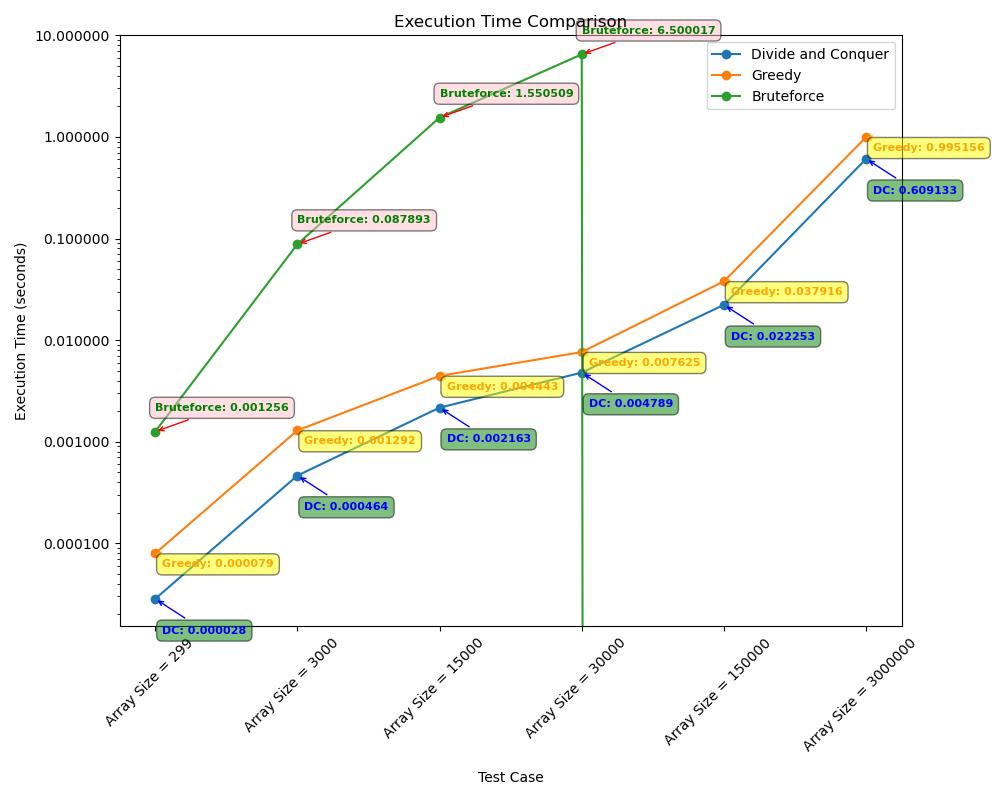
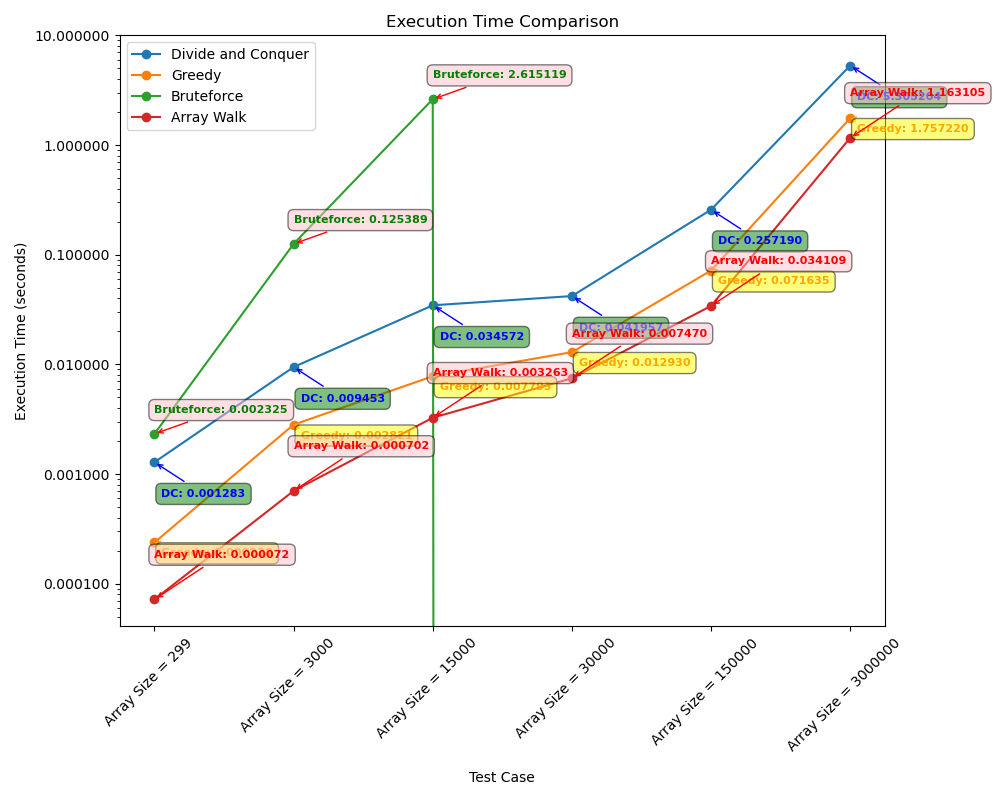
paa2 testes update

diff --git a/paa-2.py b/paa-2.py
@@ -6,8 +6,8 @@ import pandas as pd
 import time
 import pytest
 
-from increasing_sequence import maior_subsequencia_divisao_conquista, maior_subsequencia_crescente_contigua_forca_bruta, \
-    maior_subsequencia_crescente_gulosa
+from increasing_sequence import maior_subsequencia_array_walk, maior_subsequencia_crescente_contigua_forca_bruta, \
+    maior_subsequencia_crescente_gulosa, maior_subsequencia_crescente_contigua_divide_conquer
 
 # Define the maximum timeout value
 timeoutMAX = 10
@@ -38,8 +38,7 @@ test_data_random = [
 
 ]
 
-
-test_data_range =[
+test_data_range = [
     (range(1, 101)),
     (range(1, 1001)),
     (range(1, 5001)),
@@ -78,10 +77,21 @@ test_data_random_list_end = [
     (random.sample(range(1, 50001), 50000) + list(range(1, 50001))),
     (random.sample(range(1, 1000001), 1000000) + list(range(1, 1000001))),
 ]
+
+all = [
+    test_data_random,
+    test_data_range,
+    test_data_random_list_start,
+    test_data_random_list_midle,
+
+    test_data_random_list_end,
+
+]
+
 @timeout_decorator.timeout(timeoutMAX)
 def run_divide_and_conquer(array):
     start_time_divide_and_conquer = time.time()
-    result = maior_subsequencia_divisao_conquista(array)
+    result = maior_subsequencia_crescente_contigua_divide_conquer(array)
     elapsed_time_divide_and_conquer = time.time() - start_time_divide_and_conquer
     return result, elapsed_time_divide_and_conquer
 
@@ -102,9 +112,19 @@ def run_bruteforce(array):
     return result, elapsed_time_bruteforce
 
 
-def plot_execution_times(x_labels, divide_and_conquer_times, greedy_times, bruteforce_times):
+@timeout_decorator.timeout(timeoutMAX)
+def run_array_walk(array):
+    start_time_array_walk = time.time()
+    result = maior_subsequencia_array_walk(array)
+    elapsed_time_array_walk = time.time() - start_time_array_walk
+    return result, elapsed_time_array_walk
+
+
+def plot_execution_times(x_labels, divide_and_conquer_times, greedy_times, bruteforce_times, array_walk_times):
     # Scale the data using Pandas for the y-axis
-    df = pd.DataFrame({'Divide and Conquer': divide_and_conquer_times, 'Greedy': greedy_times, 'Bruteforce': bruteforce_times})
+    df = pd.DataFrame(
+        {'Divide and Conquer': divide_and_conquer_times, 'Greedy': greedy_times, 'Bruteforce': bruteforce_times,
+         'Array Walk': array_walk_times})
 
     # Plot the execution times
     fig, ax = plt.subplots(figsize=(10, 8))
@@ -115,6 +135,8 @@ def plot_execution_times(x_labels, divide_and_conquer_times, greedy_times, brute
     plt.plot(x_labels, df['Divide and Conquer'], label='Divide and Conquer', marker='o')
     plt.plot(x_labels, df['Greedy'], label='Greedy', marker='o')
     plt.plot(x_labels, df['Bruteforce'], label='Bruteforce', marker='o')
+    plt.plot(x_labels, df['Array Walk'], label='Array Walk', marker='o')
+
     plt.xlabel('Test Case')
     plt.ylabel('Execution Time (seconds)')
     plt.title('Execution Time Comparison')
@@ -129,8 +151,8 @@ def plot_execution_times(x_labels, divide_and_conquer_times, greedy_times, brute
         return f"{value:.6f}"
 
     ax.yaxis.set_major_formatter(FuncFormatter(format_func))
-    for i, (x, y_divide_and_conquer, y_greedy, y_bruteforce) in enumerate(
-            zip(x_labels, df['Divide and Conquer'], df['Greedy'], df['Bruteforce'])):
+    for i, (x, y_divide_and_conquer, y_greedy, y_bruteforce, y_array_walk) in enumerate(
+            zip(x_labels, df['Divide and Conquer'], df['Greedy'], df['Bruteforce'], df['Array Walk'])):
         # Annotate for Divide and Conquer
         plt.annotate(f'DC: {y_divide_and_conquer:.6f}', (x, y_divide_and_conquer),
                      xytext=(5, -25), textcoords='offset points', fontsize=8, fontweight='bold', color='blue',
@@ -149,24 +171,34 @@ def plot_execution_times(x_labels, divide_and_conquer_times, greedy_times, brute
                      bbox=dict(boxstyle='round,pad=0.5', fc='pink', alpha=0.5),
                      arrowprops=dict(arrowstyle='->', color='red'))
 
+        # Annotate for Array Walk
+        plt.annotate(f'Array Walk: {y_array_walk:.6f}', (x, y_array_walk),
+                     xytext=(0, 30), textcoords='offset points', fontsize=8, fontweight='bold', color='red',
+                     bbox=dict(boxstyle='round,pad=0.5', fc='pink', alpha=0.5),
+                     arrowprops=dict(arrowstyle='->', color='red'))
+
     plt.tight_layout()
     plt.show()
 
 
-def tests_and_plot():
+@pytest.mark.parametrize("test_input", all)
+def tests_and_plot(test_input):
     divide_and_conquer_times = []
     greedy_times = []
     bruteforce_times = []
+    array_walk_times = []
 
     x_labels = []
 
-    for array in test_data_random_list_end:
+    for array in test_input:
         result_divide_and_conquer = None
         elapsed_time_divide_and_conquer = 0
         result_greedy = None
         elapsed_time_greedy = 0
         result_bruteforce = None
         elapsed_time_bruteforce = 0
+        result_array_walk = None
+        elapsed_time_array_walk = 0
 
         try:
             result_divide_and_conquer, elapsed_time_divide_and_conquer = run_divide_and_conquer(array)
@@ -187,6 +219,12 @@ def tests_and_plot():
             print(f'Bruteforce Timed Out')
             pass
 
+        try:
+            result_array_walk, elapsed_time_array_walk = run_array_walk(array)
+        except timeout_decorator.TimeoutError:
+            print(f'Array Walk Timed Out')
+            pass
+
         print('\n' + '=' * 30)
         print_test_result(array, result_divide_and_conquer, elapsed_time_divide_and_conquer,
                           'Divide and Conquer')
@@ -194,10 +232,11 @@ def tests_and_plot():
         divide_and_conquer_times.append(elapsed_time_divide_and_conquer)
         greedy_times.append(elapsed_time_greedy)
         bruteforce_times.append(elapsed_time_bruteforce)
+        array_walk_times.append(elapsed_time_array_walk)
 
         x_labels.append(f"Array Size = {len(array)}\n")
 
-    plot_execution_times(x_labels, divide_and_conquer_times, greedy_times, bruteforce_times)
+    plot_execution_times(x_labels, divide_and_conquer_times, greedy_times, bruteforce_times,array_walk_times)
 
 
 def print_test_result(array, result, elapsed_time, method):

diff --git a/increasing_sequence.py b/increasing_sequence.py
@@ -1,10 +1,10 @@
-def maior_subsequencia_divisao_conquista(arr):
+def maior_subsequencia_array_walk(arr):
     maxLength = 1
     maxStart = 0
     curStart = 0
     curLength = 1
     for i in range(1, len(arr)):
-        if arr[i] <= arr[i-1]:
+        if arr[i] <= arr[i - 1]:
             if curLength > maxLength:
                 maxLength = curLength
                 maxStart = curStart
@@ -16,6 +16,39 @@ def maior_subsequencia_divisao_conquista(arr):
         maxLength = curLength
         maxStart = curStart
     return (maxLength, maxStart)
+
+
+def maior_subsequencia_crescente_contigua_divide_conquer(arr):
+    def merge(left, right):
+        merged = []
+        i = j = 0
+
+        while i < len(left) and j < len(right):
+            if right[j] == left[i] + 1:
+                while j < len(right) and right[j] == left[i] + 1:
+                    merged.append(left[i])
+                    i += 1
+                    j += 1
+            elif left[i] < right[j]:
+                i += 1
+            else:
+                j += 1
+
+        return merged
+
+    def divide_and_conquer(arr):
+        if len(arr) <= 1:
+            return arr
+
+        mid = len(arr) // 2
+        left = divide_and_conquer(arr[:mid])
+        right = divide_and_conquer(arr[mid:])
+
+        return merge(left, right)
+
+    result = divide_and_conquer(arr)
+    return result
+
 
 
 

diff --git a/main.py b/main.py
@@ -7,7 +7,7 @@ import time
 import pytest
 
 from subset_sum import subset_sum_backtracking, subset_sum_bruteforce
-from increasing_sequence import maior_subsequencia_divisao_conquista
+from increasing_sequence import maior_subsequencia_array_walk
 # Define the maximum timeout value
 timeoutMAX = 10
 
@@ -113,7 +113,7 @@ def run_backtracking(array, target_sum):
 @timeout_decorator.timeout(timeoutMAX)
 def run_divide_and_conquer(array):
     start_time_divide_and_conquer = time.time()
-    result = maior_subsequencia_divisao_conquista(array)
+    result = maior_subsequencia_array_walk(array)
     elapsed_time_divide_and_conquer = time.time() - start_time_divide_and_conquer
     return result, elapsed_time_divide_and_conquer
 
